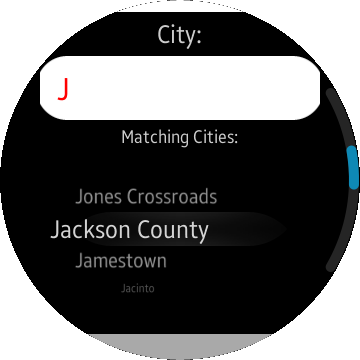
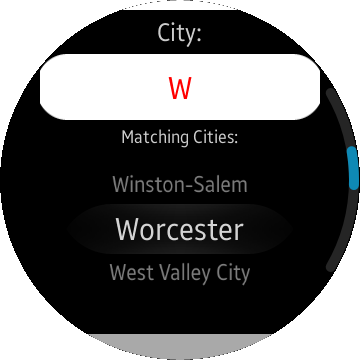
[Wearable][Weather] Remove unnecessary behavior, update screenshots

diff --git a/Wearable/Weather/Weather/Views/MainPage.xaml b/Wearable/Weather/Weather/Views/MainPage.xaml
@@ -62,10 +62,6 @@
                    Text="{Binding EnteredCity, Mode=TwoWay}"
                    HorizontalTextAlignment="Center"
                    TextColor="{Binding CityEntryTextColor}">
-                <w:PopupEntry.Behaviors>
-                    <behaviors:CityNameValidatorBehavior
-                        City="{Binding Source={x:Reference Name=ViewModel}, Path=SelectedCity}"/>
-                </w:PopupEntry.Behaviors>
             </w:PopupEntry>
 
 

diff --git a/Wearable/Weather/Weather/ViewModels/MainPageViewModel.cs b/Wearable/Weather/Weather/ViewModels/MainPageViewModel.cs
@@ -135,7 +135,12 @@ namespace Weather.ViewModels
                 {
                     ((App)Application.Current).IsInitialized = false;
                     EnteredCity = value.Name;
+                    CityEntryTextColor = Color.FromRgb(128, 128, 128);
                     CheckWeatherCommand.ChangeCanExecute();
+                }
+                else
+                {
+                    CityEntryTextColor = Color.Red;
                 }
             }
         }
@@ -219,10 +224,6 @@ namespace Weather.ViewModels
                 SelectedCity = null;
                 CityEntryTextColor = Color.Red;
                 CheckWeatherCommand.ChangeCanExecute();
-            }
-            else
-            {
-                CityEntryTextColor = Color.FromRgb(128, 128, 128);
             }
         }
 
